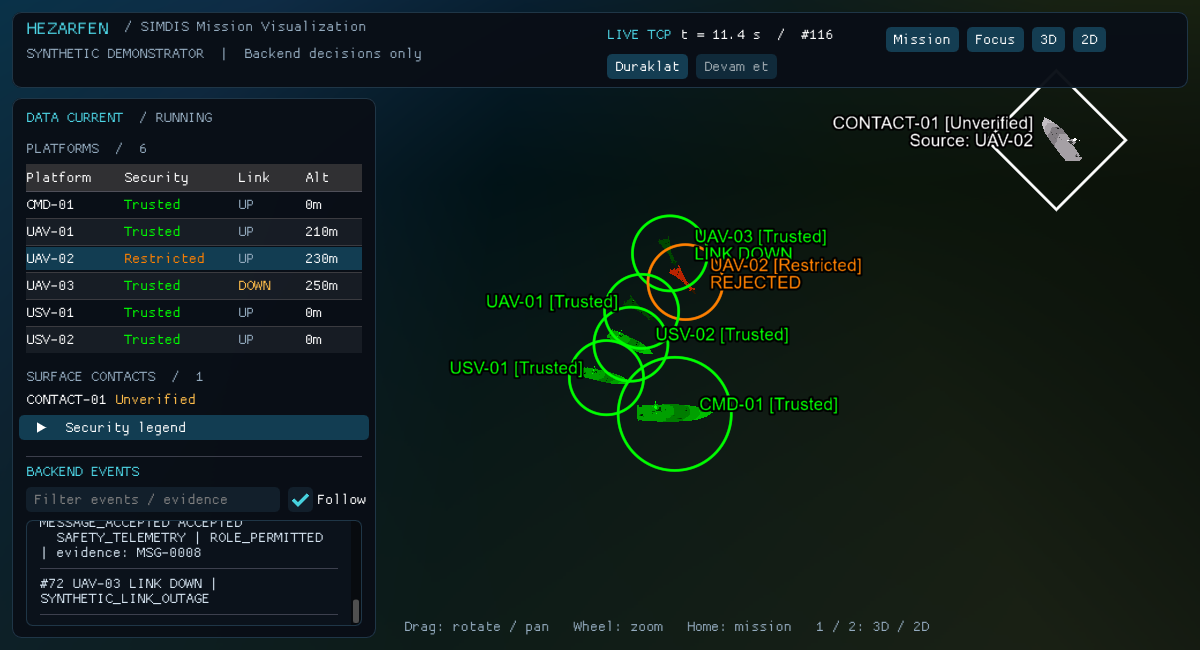
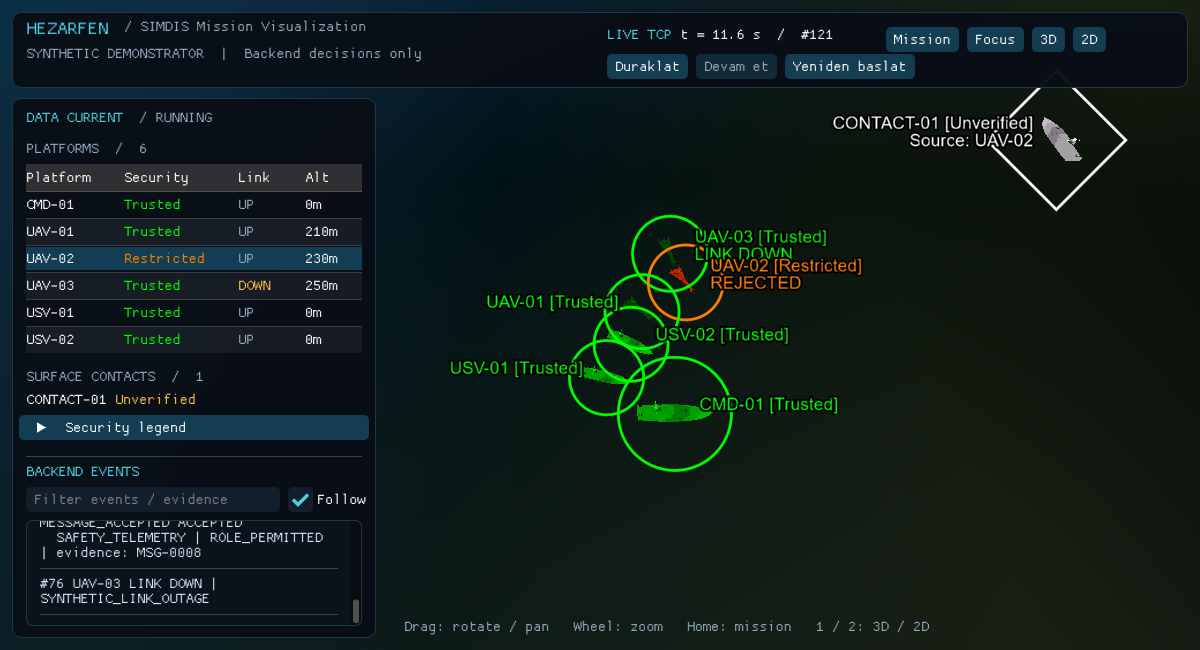
Add native restart button for a fresh automatic mission

Changed region(s): [[0.4008, 0.3385, 0.7092, 0.4923], [0.6475, 0.0308, 0.7708, 0.1231], [0.5858, 0.6154, 0.6167, 0.6462]]

diff --git a/viewer/tests/test_presentation_backend.py b/viewer/tests/test_presentation_backend.py
@@ -5,6 +5,7 @@ import tempfile
 import unittest
 
 from backend.main import DEMO
+from backend.simulator import Simulator
 from backend.tcp_server import read_frame
 from viewer.presentation_backend import PresentationRuntime
 
@@ -105,6 +106,54 @@ class PauseTests(unittest.TestCase):
         self.assertFalse(r.sim.running)
         self.assertEqual(r.time, 150)
 
+    def test_restart_completed_demo_repeats_full_automatic_schedule(self):
+        r = self.runtime
+        for _ in range(750):
+            r.tick()
+        old_seq = r.seq
+        self.assertFalse(r.sim.running)
+        r.action('restart')
+        self.assertTrue(r.scripted)
+        self.assertTrue(r.sim.running)
+        self.assertFalse(r.paused)
+        self.assertEqual(r.time, 0)
+        self.assertEqual(r.sim.tick, 0)
+        self.assertEqual(r.sim.snapshot(), Simulator(r.seed).snapshot())
+        self.assertGreater(r.seq, old_seq)
+        for tick in range(1, 751):
+            r.tick()
+            if tick == 150:
+                self.assertEqual(r.sim.security.states['UAV-02'], 'Watch')
+            if tick == 300:
+                self.assertEqual(r.sim.contacts['CONTACT-01']['status'], 'Unverified')
+            if tick == 450:
+                self.assertEqual(r.sim.security.states['UAV-02'], 'Restricted')
+            if tick == 550:
+                self.assertEqual(r.sim.links['UAV-03'], 'DOWN')
+            if tick == 650:
+                self.assertEqual(r.sim.links['UAV-03'], 'UP')
+        self.assertEqual(r.time, 150)
+        self.assertFalse(r.sim.running)
+        self.assertEqual(r.sim.security.counter, 8)
+
+    def test_restart_paused_outage_clears_restriction_contacts_and_links(self):
+        r = self.runtime
+        for _ in range(550):
+            r.tick()
+        r.action('pause')
+        self.assertEqual(r.sim.links['UAV-03'], 'DOWN')
+        self.assertEqual(r.sim.security.states['UAV-02'], 'Restricted')
+        self.assertTrue(r.sim.contacts)
+        r.action('restart')
+        self.assertFalse(r.paused)
+        self.assertTrue(r.sim.running)
+        self.assertEqual(set(r.sim.links.values()), {'UP'})
+        self.assertEqual(set(r.sim.security.states.values()), {'Trusted'})
+        self.assertFalse(r.sim.contacts)
+        self.assertFalse(r.sim.evidence)
+        self.assertEqual(r.time, 0)
+        self.assertTrue(r.status()['restart_supported'])
+
 
 class HttpPauseTests(unittest.IsolatedAsyncioTestCase):
     async def test_actual_http_controls_and_paused_reconnect_keep_v1_schema(self):
@@ -133,6 +182,14 @@ class HttpPauseTests(unittest.IsolatedAsyncioTestCase):
                 await post('resume')
                 resumed = await asyncio.wait_for(read_frame(reader), 2)
                 self.assertEqual(resumed['data'], {'running': True})
+                await post('restart')
+                restarted = await asyncio.wait_for(read_frame(reader), 2)
+                self.assertEqual(restarted['type'], 'SNAPSHOT')
+                self.assertEqual(restarted['t_sec'], 0)
+                self.assertGreater(restarted['seq'], resumed['seq'])
+                self.assertEqual(len(restarted['data']['platforms']), 6)
+                self.assertTrue(r.scripted and r.sim.running)
+
             finally:
                 if writer:
                     writer.close()

diff --git a/viewer/SimdisScene.cpp b/viewer/SimdisScene.cpp
@@ -51,7 +51,9 @@ void SimdisScene::onFrameUpdate() {
             renderState();
             if (update.message->security || update.message->link || update.message->type == "CONTACT_EVENT")
                 std::cout << "[HEZARFEN] " << state_.events.back() << std::endl;
-            if (!positioned_ && !state_.platforms.empty()) { home(); positioned_ = true; }
+            const bool newMission=update.message->type=="SNAPSHOT" && update.message->t_sec==0;
+            if(newMission) { eventFilter_[0]='\0'; shownEvent_.clear(); }
+            if ((!positioned_ || newMission) && !state_.platforms.empty()) { home(); positioned_ = true; }
         }
     }
     switch (cameraAction_) {
@@ -150,6 +152,7 @@ void SimdisScene::home() {
 void SimdisScene::writeReport(const std::string& path) const {
     nlohmann::json j = {{"project","HEZARFEN"},{"ui","Dear ImGui"},{"ui_frames",uiFrames_},{"mode",mode_},{"seq",state_.seq},{"t_sec",state_.time},
         {"stale",state_.stale},{"paused",replayPaused_ ? replayPaused_->load() : controlStatus_.paused},
+        {"restart_controls_available",control_!=nullptr && controlStatus_.restartSupported},
         {"pause_controls_available",replayPaused_!=nullptr || controlStatus_.supported},{"control_error",controlStatus_.error},
         {"awaiting_snapshot",state_.awaitingSnapshot},{"applied",state_.applied},
         {"security_events",state_.securityEvents},{"snapshots",state_.snapshots},{"source_status",sourceStatus_},

diff --git a/viewer/presentation_backend.py b/viewer/presentation_backend.py
@@ -9,6 +9,7 @@ from pathlib import Path
 import signal
 
 from backend.main import DEMO, Runtime
+from backend.simulator import Simulator
 
 
 class PresentationRuntime(Runtime):
@@ -21,6 +22,18 @@ class PresentationRuntime(Runtime):
         self.emit('HEARTBEAT', {'running': self.sim.running and not self.paused})
 
     def action(self, action):
+        if action == 'restart':
+            self.close_replay()
+            self.sim = Simulator(self.seed)
+            self.time = 0.0
+            self.mode = 'LIVE'
+            self.scripted = True
+            self.paused = False
+            self.log.clear()
+            self.checkpoint()
+            super().action('start')
+            self.emit('HEARTBEAT', {'running': True})
+            return
         if action == 'pause':
             if self.mode not in {'LIVE', 'REPLAY'} or not (self.sim.running or self.mode == 'REPLAY'):
                 raise ValueError('No active mission to pause')
@@ -53,7 +66,7 @@ class PresentationRuntime(Runtime):
 
     def status(self):
         state = super().status()
-        state.update(paused=self.paused, pause_supported=True,
+        state.update(paused=self.paused, pause_supported=True, restart_supported=True,
                      running=self.sim.running and not self.paused)
         return state
 

diff --git a/viewer/MissionControl.cpp b/viewer/MissionControl.cpp
@@ -35,7 +35,7 @@ MissionControl::~MissionControl() { stop(); }
 void MissionControl::start() { if(!worker_.joinable()) { stop_=false; worker_=std::thread(&MissionControl::run,this); } }
 void MissionControl::stop() { stop_=true; wake_.notify_all(); if(worker_.joinable()) worker_.join(); }
 void MissionControl::request(const std::string& action) {
-    if(action!="pause" && action!="resume") return;
+    if(action!="pause" && action!="resume" && action!="restart") return;
     if(busy_.exchange(true)) return;
     { std::lock_guard<std::mutex> lock(mutex_); action_=action; }
     wake_.notify_one();
@@ -58,6 +58,7 @@ void MissionControl::run() {
             }
             const auto state=nlohmann::json::parse(httpRequest(connection.value,L"GET",L"/state"));
             current.supported=state.value("pause_supported",false);
+            current.restartSupported=state.value("restart_supported",false);
             current.paused=state.value("paused",false);
             current.running=state.at("running").get<bool>(); current.time=state.at("t_sec").get<double>();
             current.error=actionError;

diff --git a/viewer/tests/ViewerTests.cpp b/viewer/tests/ViewerTests.cpp
@@ -88,6 +88,14 @@ int main(int argc,char** argv) {
         std::ifstream in(argv[1]); std::string first; std::getline(in,first);
         const auto snapshot=parseMessage(first);
         check(snapshot.platforms.size()==6,"snapshot must contain six platforms");
+        // An immediate restart can have the same t=0 as the previous mission.
+        MissionState atZero; check(atZero.apply(snapshot),"initial zero-time snapshot");
+        std::string firstDecision; std::getline(in,firstDecision);
+        check(atZero.apply(parseMessage(firstDecision)),"initial mission decision");
+        check(!atZero.events.empty(),"initial decision not logged");
+        auto zeroRestart=snapshot; zeroRestart.seq=atZero.seq+1;
+        check(atZero.apply(zeroRestart),"zero-time restart snapshot rejected");
+        check(atZero.events.empty(),"previous mission events survived zero-time restart");
         check(validateReplay(argv[1])>900,"complete recording validation");
         MissionState state;
         auto hb=parseMessage(R"({"v":1,"type":"HEARTBEAT","seq":2,"t_sec":0,"data":{"running":false}})");

diff --git a/viewer/tests/ControlProbe.cpp b/viewer/tests/ControlProbe.cpp
@@ -28,8 +28,10 @@ int main(int argc,char** argv) {
         const auto still=read();
         if(!still.paused || std::abs(still.time-paused.time)>1e-9) throw std::runtime_error("clock advanced while paused");
         control.request("resume"); wait([&](const auto& s){return !s.paused && s.running && s.time>paused.time;});
+        control.request("restart");
+        wait([&](const auto& s){return s.restartSupported && !s.paused && s.running && s.time<.5 && !control.busy();});
         control.stop();
-        std::cout<<"PASS native WinHTTP pause/resume: acknowledged pause freezes time; resume advances from same time\n";
+        std::cout<<"PASS native WinHTTP pause/resume/restart: frozen time, resume, then fresh automatic mission at zero\n";
         return 0;
     } catch(const std::exception& e) { std::cerr<<"FAIL "<<e.what()<<"\n";return 1; }
 }

diff --git a/viewer/MissionPanel.cpp b/viewer/MissionPanel.cpp
@@ -48,6 +48,12 @@ void SimdisScene::drawPanel() {
     ImGui::BeginDisabled(!controlsAvailable || busy || !paused);
     if(ImGui::Button("Devam et")) { if(localReplay) replayPaused_->store(false); else control_->request("resume"); }
     ImGui::EndDisabled(); ImGui::SameLine();
+    if(!localReplay) {
+        ImGui::BeginDisabled(!controlsAvailable || busy || !controlStatus_.restartSupported);
+        if(ImGui::Button("Yeniden baslat")) control_->request("restart");
+        if(ImGui::IsItemHovered()) ImGui::SetTooltip("150 saniyelik canli senaryoyu sifirdan baslatir.");
+        ImGui::EndDisabled(); ImGui::SameLine();
+    }
     if(paused) ImGui::TextColored(amber,"PAUSED");
     else if(busy) ImGui::TextDisabled("Applying...");
     else if(!controlsAvailable) ImGui::TextDisabled("Controls unavailable");

diff --git a/viewer/tests/pause_check.py b/viewer/tests/pause_check.py
@@ -48,6 +48,7 @@ def main():
         assert current['t_sec'] == frozen['t_sec'] and current['platforms'] == frozen['platforms']
         report = json.loads((EVIDENCE / 'pause.json').read_text())
         assert report['paused'] and report['pause_controls_available'] and not report['stale']
+        assert report['restart_controls_available']
         assert report['t_sec'] == frozen['t_sec'] and all(p['sdk_active'] for p in report['platforms'])
         assert (EVIDENCE / 'pause.png').stat().st_size > 20000
         action('resume')

diff --git a/viewer/Protocol.cpp b/viewer/Protocol.cpp
@@ -135,7 +135,7 @@ bool MissionState::apply(const Message& m) {
     }
     if (snapshot) {
         platforms.clear(); contacts.clear(); running.reset(); ++snapshots;
-        if (awaitingSnapshot || m.t_sec < time || m.run_id != runId) events.clear();
+        if (awaitingSnapshot || m.t_sec == 0 || m.t_sec < time || m.run_id != runId) events.clear();
         awaitingSnapshot = false; stale = false;
     } else if (m.t_sec < time) {
         disconnected("TIME RESET WITHOUT SNAPSHOT"); return false;

diff --git a/viewer/MissionControl.h b/viewer/MissionControl.h
@@ -11,6 +11,7 @@ struct ControlStatus {
     bool supported{false}, paused{false}, running{false};
     double time{};
     std::string error;
+    bool restartSupported{false};
 };
 // Dedicated loopback HTTP control channel. TCP remains an unchanged observer feed.
 class MissionControl {

diff --git a/viewer/README.md b/viewer/README.md
@@ -42,11 +42,11 @@ The generated launcher sets DLL, GDAL, plugin and SDK model/data paths and launc
 
 For interactive controls, start `viewer.presentation_backend` without `--demo` and open its panel at `http://127.0.0.1:8000`. The backend panel drives scenario events. The SIMDIS viewer observes the unchanged TCP feed. Its pause/resume buttons use a separate loopback HTTP control channel. There is no automatic switch from live data to a recording.
 
-## Duraklat / Devam et
+## Duraklat / Devam et / Yeniden baslat
 
-Use `python -m viewer.presentation_backend --demo` for the presentation, then launch the viewer normally. The header has **Duraklat** and **Devam et** buttons. Pause freezes the actual mission clock, all platform motion, scheduled security scenarios and outage restoration timers. Resume continues from that exact simulation time. Camera controls remain usable while paused; the feed stays connected and sends `HEARTBEAT.running=false` so the scene remains current rather than stale.
+Use `python -m viewer.presentation_backend --demo` for the presentation, then launch the viewer normally. **Yeniden baslat** in the SIMDIS window starts a fresh live 150-second automatic mission, including when the previous mission has finished or is paused. It resets positions, contacts, trust and links, clears pause and re-enables the complete automatic event schedule. The observer stays connected; message sequence numbers continue increasing and prior recordings remain preserved. This is a fresh simulation run, not playback of a recording. The header has **Duraklat** and **Devam et** buttons. Pause freezes the actual mission clock, all platform motion, scheduled security scenarios and outage restoration timers. Resume continues from that exact simulation time. Camera controls remain usable while paused; the feed stays connected and sends `HEARTBEAT.running=false` so the scene remains current rather than stale.
 
-The presentation runner subclasses the existing backend Runtime from `viewer/`; it does not modify `backend/`, security rules, or the TCP v1 schema. Pause/resume metadata is exposed only through the existing loopback HTTP service. The C++ WinHTTP client runs off the render thread, waits for actual backend state, and displays PAUSED after acknowledgement. HTTP port defaults to 8000; use `--control-port` in the viewer to match a custom runner `--http-port`.
+The presentation runner subclasses the existing backend Runtime from `viewer/`; it does not modify `backend/`, security rules, or the TCP v1 schema. Pause/resume/restart metadata is exposed only through the existing loopback HTTP service. Restart is enabled only when the runner advertises `restart_supported`; older runners need a restart to load the new code. The C++ WinHTTP client runs off the render thread, waits for actual backend state, and displays PAUSED after acknowledgement. HTTP port defaults to 8000; use `--control-port` in the viewer to match a custom runner `--http-port`.
 
 `python -m backend.main` remains compatible with the viewer, but does not support pause/resume: these buttons are disabled until the pause-aware runner is used. Completed missions cannot be resumed as if paused. While paused, scenario injection buttons are rejected; Reset or selecting a new replay clears pause. Pause does not change trust, contacts, routes or the security audit.
 
@@ -59,7 +59,7 @@ python -m unittest viewer.tests.test_presentation_backend -v
 python -m viewer.tests.pause_check
 ```
 
-The second command launches the real native client and SDK viewer on temporary ports, checks pause/resume acknowledgement and frozen coordinates, and creates `evidence/pause.png` with `evidence/pause.json`.
+The second command launches the real native client and SDK viewer on temporary ports, checks pause/resume/restart acknowledgement and frozen coordinates, and creates `evidence/pause.png` with `evidence/pause.json`.
 
 ## Offline fallback
 

diff --git a/viewer/VALIDATION.md b/viewer/VALIDATION.md
@@ -83,6 +83,12 @@ Six new Python tests passed: snapshot/time/trust freeze at the 30-second script 
 
 The compiled `ControlProbe.exe` exercised the exact native WinHTTP client used by the buttons against a real presentation runner: acknowledged pause held time for 1.2 seconds, then resume advanced time. A real SIMDIS viewer was subsequently connected while paused for seven seconds: all six SDK nodes stayed active, all backend positions/time remained identical, controls were available, PAUSED was shown and the observer did not become stale. See the actual [paused framebuffer](evidence/pause.png) and [SDK report](evidence/pause.json). Desktop mouse input remains outside the automated checks.
 
+## Native mission restart
+
+The SIMDIS header now includes **Yeniden baslat**, alongside Duraklat and Devam et. The live control client sends `/action/restart` to the presentation runner. A new Simulator is created with the same seed, time resets to zero, contacts/evidence/restrictions/outages are cleared, pause is cleared, and the full 150-second automatic schedule starts again. TCP sequence numbers continue monotonically and audit/record files are not overwritten. Backend files and recordings remain unchanged.
+
+Two additional runtime tests verify restart after a completed demo through the entire second 150-second timeline, and restart during a paused outage with Restricted state and contacts. The HTTP integration test verifies the fresh six-platform SNAPSHOT at t=0 with an increasing sequence. The native ControlProbe also sends restart through the same WinHTTP client used by the button. The C++ state tests cover an immediate t=0 restart clearing the prior mission event list. The restart button requires the runner's explicit `restart_supported` capability; local offline replay retains its separate playback controls.
+
 ## Remaining limits
 
 There are no unresolved compile, link, live TCP, reconnect or offline replay failures in the tested configuration. SDK sometimes prints `GraphicsWindowWin32::grabFocus() - Failed grabbing the focus` for background test launches; the window still creates, renders, captures and exits successfully.
